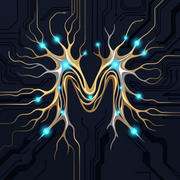
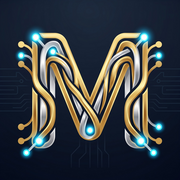
Troca o ícone pelo M de fitas douradas e prateadas com circuito
Arte nova enviada pelo Mauricio (2048 px). A aba do navegador usa só o
M; no Android a arte fica em 85% para o M não ser cortado no ícone
redondo.

Claude-Session: https://claude.ai/code/session_01Tkx9jXUnBCx1CmQm6UbKhQ

diff --git a/CLAUDE.md b/CLAUDE.md
@@ -103,7 +103,7 @@ Tema escuro "vidro sobre luzes neon", inspirado no ícone (neurônio de vidro em
 - Degradê da marca só no destaque (cartão "Revisão de hoje", tela de entrada). Ciano `#4FDDFF` = toque e ação (botão principal ciano com texto escuro). Verde-menta `#34D399` = certo; coral `#FF6B5E` = errado (nunca rosa); âmbar = atenção; magenta `#FF4FD8` só na bolinha de novidade.
 - Fundo `#0A0D1C` com 2 luzes suaves, sem quadriculado. Engrenagem em vidro discreto.
 - Matérias em tons de pedra preciosa (texto branco legível): nefro `#2563EB`/`#1E3A8A`, pneumo `#0E7490`/`#155E75`, gastro `#047857`/`#065F46`, orto `#B45309`/`#7C2D12`, uro `#6D28D9`/`#4C1D95`, pass `#BE185D`/`#831843`. A cor clara de cada matéria (agenda, brilho do bloco) fica em `COR_MATERIA` (`lib/agenda.ts`).
-Tokens e regras no fim de `app/globals.css` (bloco "Tema Med Genius"). Ícones do app em `public/icons`, `app/icon.png`, `app/apple-icon.png`; logo em `public/brand/med-genius.webp` (ícone de 20/10/2026, desenho plano: neurônios dourados e prateados formando um "M" com pontos azuis, sobre placa de circuito azul-noite que vai até a borda; o original de 2048 px está em `public/brand/med-genius-original.jpg`). Tamanhos: iPhone (`apple-icon`), Android (`maskable-512`) e logo da tela de entrada usam a arte inteira (na entrada, a moldura de ouro do CSS); `icon-192`/`icon-512` são a arte inteira com cantos arredondados (22,5%); a aba do navegador (`app/icon.png`, 64 px) usa só o centro (quadrado de 1360 px a partir de x 344, y 380; cantos de raio 14) para o M ficar maior.
+Tokens e regras no fim de `app/globals.css` (bloco "Tema Med Genius"). Ícones do app em `public/icons`, `app/icon.png`, `app/apple-icon.png`; logo em `public/brand/med-genius.webp` (ícone de 20/10/2026: um "M" grande de fitas douradas e prateadas entrelaçadas, com pontas de circuito e pontos azuis acesos, sobre fundo azul-noite com circuito apagado; o original de 2048 px está em `public/brand/med-genius-original.jpg`). Tamanhos: iPhone (`apple-icon`) e logo da tela de entrada usam a arte inteira (na entrada, a moldura de ouro do CSS); `icon-192`/`icon-512` são a arte inteira com cantos arredondados (22,5%); Android (`maskable-512`) é a arte em 85% sobre degradê do mesmo fundo (`#182335` → `#070E1F`), para o M não ser cortado no ícone redondo; a aba do navegador (`app/icon.png`, 64 px) usa só o M (quadrado de 1720 px a partir de x 163, y 205; cantos de raio 14).
 Tela de entrada: a da v4 (bloco próprio no fim de `app/globals.css`, com as cores da v4 só nela): logo numa moldura de ouro, "MED GENIUS" prateado com "Medicina · FAG" embaixo e, num cartão de vidro com moldura de cromo, os rótulos CPF e SENHA sobre os campos (ícone à esquerda, texto centralizado, olho para mostrar a senha) e o botão ENTRAR de ouro largo. Sem rodapé e sem aviso de senha esquecida.
 
 Versões do visual salvas no GitHub (ramos fixos, não publicados; não apague):
